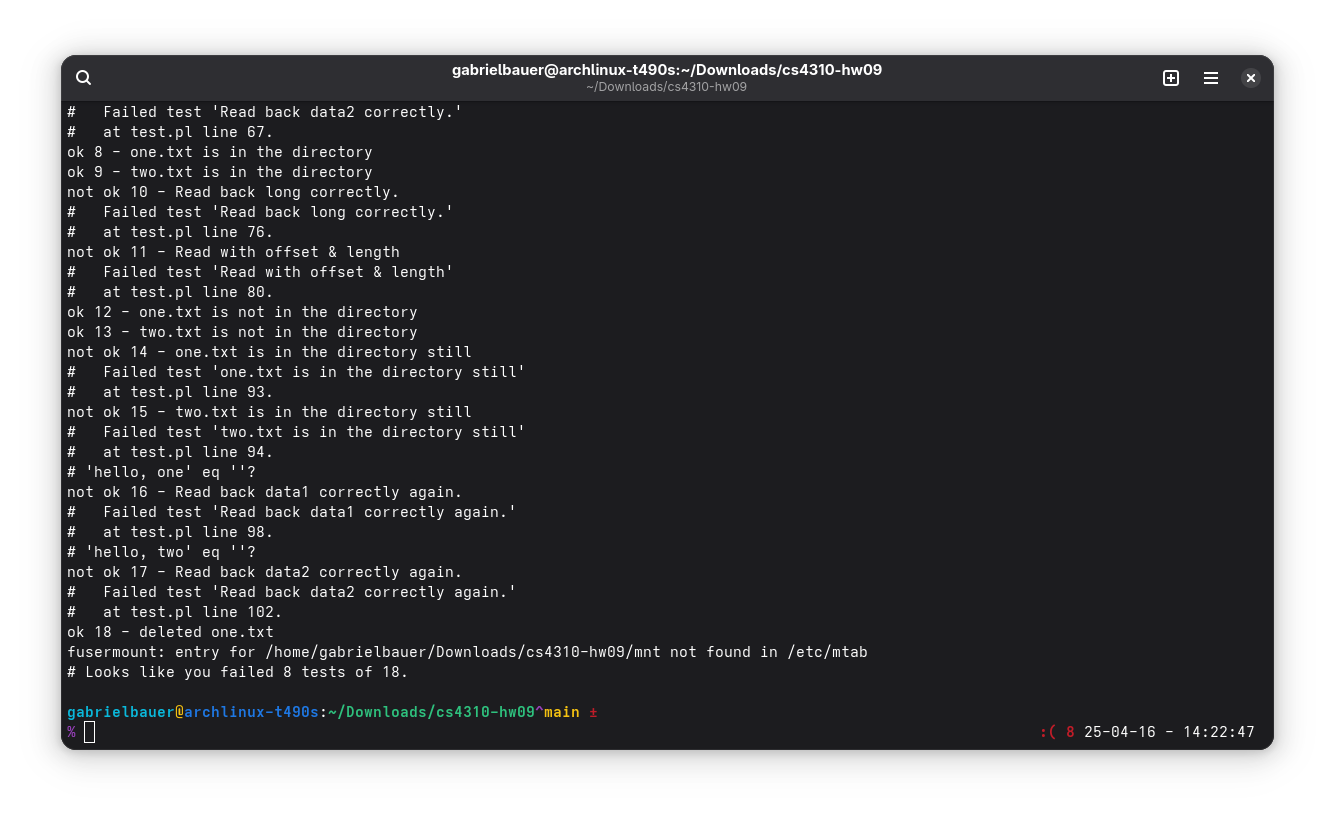
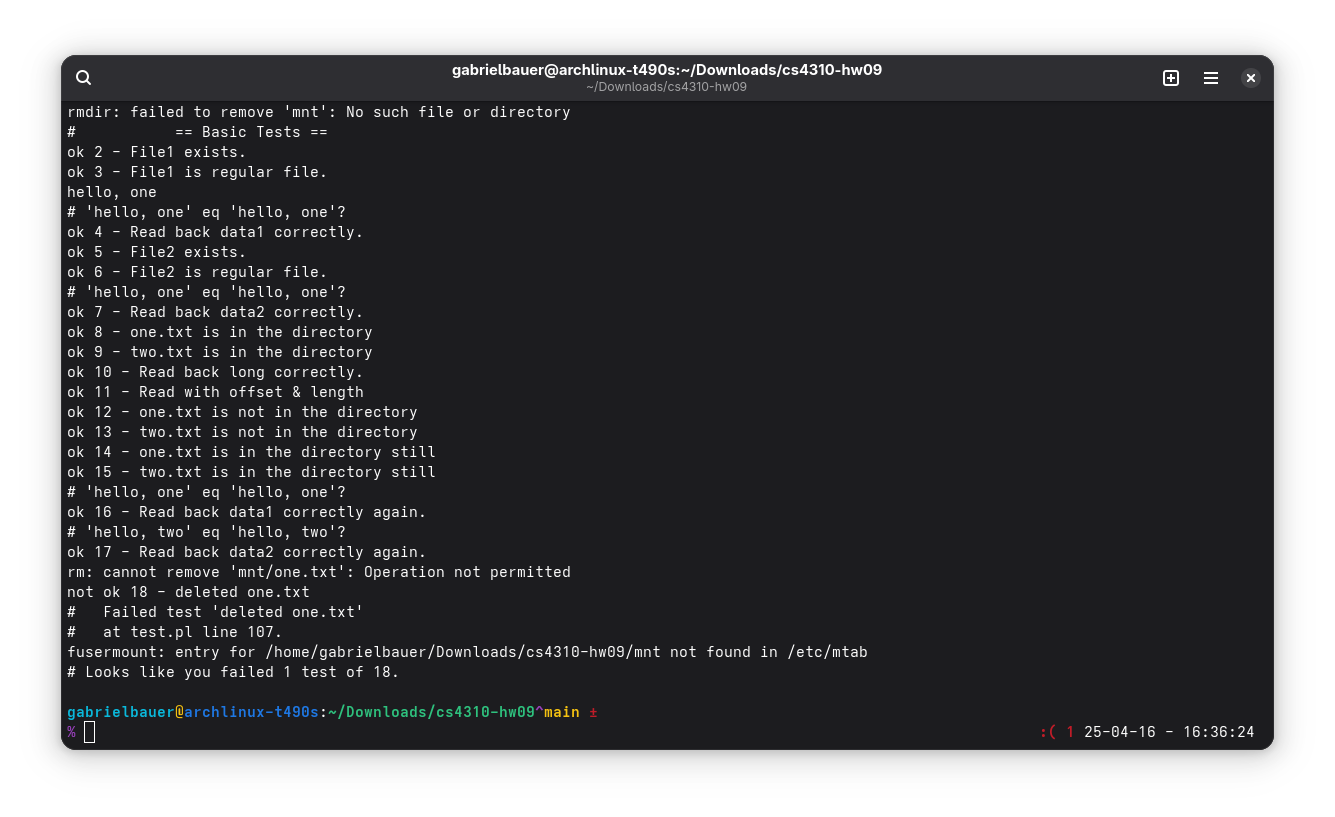
only need to implement delete...

diff --git a/nufs.c b/nufs.c
@@ -25,27 +25,63 @@ nufs_access(const char *path, int mask)
 {
     int rv = 0;
     int l = tree_lookup(path);
-    rv = (l>-1) ? 0 : -1;
+    rv = (l>-1) ? F_OK : ENOENT;
     printf("access(%s, %04o) -> %d\n", path, mask, rv);
     return rv;
+}
+
+// mknod makes a filesystem object like a file or directory
+// called for: man 2 open, man 2 link
+int
+nufs_mknod(const char *path, mode_t mode, dev_t rdev)
+{
+    int rv = 0;
+    int l = alloc_inode();
+    inode *n = get_inode(l);
+    size_t* count = (size_t*)get_root_start();
+    dirent *nod = (dirent*)get_root_start() + 1;
+    for (int i=0; i<*count; i++, *nod++);
+    strcpy(nod->name, path);
+    nod->inum = l;
+    *count = *count + 1;
+    n->mode = mode;
+    printf("mknod(%s, %04o) -> %d\n", path, mode, rv);
+    return rv;
+}
+
+int
+nufs_create(const char *path, mode_t mode, struct fuse_file_info *fi) {
+	if (nufs_mknod(path, mode, 0)) {
+    		int l = tree_lookup(path);
+    		inode *n = get_inode(l);
+        	n->mode = mode; // regular file
+        	n->size = 0;
+        	return l;
+	} else return -1;
 }
 
 // implementation for: man 2 stat
 // gets an object's attributes (type, permissions, size, etc)
 int
 nufs_getattr(const char *path, struct stat *st)
+// What I hate about this is how it will now create a file for each one that is tests exists...not very great of average UX
 {
     int rv = 0;
     int l = tree_lookup(path);
+    inode *n;
     if (l>-1) {
-    	inode *n = get_inode(l);
+    	n = get_inode(l);
         st->st_mode = n->mode; // regular file
         st->st_size = n->size;
         st->st_uid = getuid();
     }
     else {
-    	rv = -ENOENT;
+    	l = nufs_create(path, 0100644, 0);
+    	return nufs_getattr(path, st);
     }
+    /*else {
+    	rv = -ENOENT;
+    }*/
     printf("getattr(%s) -> (%d) {mode: %04o, size: %ld}\n", path, rv, st->st_mode, st->st_size);
     return rv;
 }
@@ -77,36 +113,6 @@ nufs_readdir(const char *path, void *buf, fuse_fill_dir_t filler,
 
     printf("readdir(%s) -> %d\n", path, rv);
     return 0;
-}
-
-// mknod makes a filesystem object like a file or directory
-// called for: man 2 open, man 2 link
-int
-nufs_mknod(const char *path, mode_t mode, dev_t rdev)
-{
-    int rv = 0;
-    int l = alloc_inode();
-    inode *n = get_inode(l);
-    size_t* count = (size_t*)get_root_start();
-    dirent *nod = (dirent*)get_root_start() + 1;
-    for (int i=0; i<*count; i++, *nod++);
-    strcpy(nod->name, path);
-    nod->inum = l;
-    *count = *count + 1;
-    n->mode = mode;
-    printf("mknod(%s, %04o) -> %d\n", path, mode, rv);
-    return rv;
-}
-
-int
-nufs_create(const char *path, mode_t mode, struct fuse_file_info *fi) {
-	if (nufs_mknod(path, 0100644, 0)) {
-    		int l = tree_lookup(path);
-    		inode *n = get_inode(l);
-        	n->mode = mode; // regular file
-        	n->size = 0;
-        	return 0;
-	} else return -1;
 }
 
 // most of the following callbacks implement
@@ -178,7 +184,7 @@ nufs_open(const char *path, struct fuse_file_info *fi)
 {
     int rv = 0;
     int k = nufs_access(path, 0);
-    if (k==-1) k = nufs_mknod(path, 0100644, 0);
+    if (k==ENOENT) k = nufs_create(path, 0100644, 0);
     printf("open(%s) -> %d\n", path, rv);
     return rv;
 }
@@ -187,12 +193,11 @@ nufs_open(const char *path, struct fuse_file_info *fi)
 int
 nufs_read(const char *path, char *buf, size_t size, off_t offset, struct fuse_file_info *fi)
 {
-    int rv = 6;
-    //strcpy(buf, "hello\n");
+    int rv = 4096;
     int l = tree_lookup(path);
     inode* n = get_inode(l);
-    void *data = (void*)(uintptr_t)n->ptrs[0];
-    memcpy(buf, get_data_start(), size);
+    void *data = (void*)(uintptr_t)((char*)get_data_start()+n->ptrs[0]);
+    memcpy(buf, data, size);
     printf("read(%s, %ld bytes, @+%ld) -> %d\n", path, size, offset, rv);
     return rv;
 }
@@ -203,12 +208,13 @@ nufs_write(const char *path, const char *buf, size_t size, off_t offset, struct 
 {
     int rv = 0;
     int l = tree_lookup(path);
-    if (l==-1) {
-    	int l = alloc_inode();
-    }
     inode* n = get_inode(l);
-    //void *b = (void*)(uintptr_t)n->ptrs[0];	// (int)(uintptr_t)get_data_start()
-    memcpy(get_data_start(), buf, size);
+    inode* h = get_inode(0);
+    void *b = (void*)(uintptr_t)((char*)get_data_start() + h->ptrs[0]);
+    memcpy(b, buf, size);
+    n->ptrs[0]=h->ptrs[0];
+    n->size=size;
+    h->ptrs[0]+=size;
     rv = size;
     printf("write(%s, %ld bytes, @+%ld) -> %d\n", path, size, offset, rv);
     return rv;
@@ -282,7 +288,7 @@ int
 main(int argc, char *argv[])
 {
     assert(argc > 2 && argc < 6);
-    if (access(argv[argc], F_OK) != 0) mkfs();
+    //if (access(argv[argc], F_OK) != 0) mkfs();
     storage_init(argv[--argc]);
     nufs_init_ops(&nufs_ops);
     return fuse_main(argc, argv, &nufs_ops, NULL);

diff --git a/mkfs.c b/mkfs.c
@@ -6,48 +6,15 @@
 #include "directory.h"
 #include <stdlib.h>
 
-// Actually read data
-int
-mread(const char *path, char *buf, unsigned long size)
-{
-    int rv = 6;
-    //strcpy(buf, "hello\n");
-    int l = tree_lookup(path);
-    inode* n = get_inode(l);
-    void *data = (void*)(uintptr_t)n->ptrs[0];
-    memcpy(buf, get_data_start(), size);
-    printf("read(%s, %ld bytes)\n", path, size);
-    return rv;
-}
-
-// Actually write data
-int
-mwrite(const char *path, const char *buf, size_t size)
-{
-    int rv = -1;
-    int l = tree_lookup(path);
-    if (l==-1) {
-    	int l = alloc_inode();
-    }
-    inode* n = get_inode(l);
-    //void *b = (void*)(uintptr_t)n->ptrs[0];
-    memcpy(get_data_start(), buf, size);
-    n->size += size;
-    printf("write(%s, %ld bytes)\n", path, size);
-    return rv;
-}
-
 int
 main(int argc, char *argv[])
 {
 	// TODO : mkfs implementation...
 	pages_init("data.nufs");
 	size_t *p = (size_t*)get_root_start();
-	*p = 2;
+	*p = 1;
 	dirent *root = (dirent*)get_root_start() + 1;
-	dirent *dhello = root + 1;
 	strcpy(root->name, "/");
-	strcpy(dhello->name, "/hello.txt");
 	void *blk = get_root_start();	// Root directory starts at the beginning of data segment...
 	int t = alloc_inode();
 	inode* ptr = get_inode(t);
@@ -56,16 +23,6 @@ main(int argc, char *argv[])
 	root->inum = t;
 	root->type = DIRECTORY;
 	root->active = true;
-	t = alloc_inode();
-	inode *hello = get_inode(t);
-	//printf("%d\n", t);
-	hello->mode=0100644;
-	hello->ptrs[0] = 0;
-	dhello->inum = t;
-	dhello->type = FILE;
-	dhello->active = true;
-	dhello->next=NULL;
-	root->next=dhello;
-	mwrite("/hello.txt", "hello\n", 6);
+	root->next=NULL;
 	pages_free();
 }

diff --git a/pages.c b/pages.c
@@ -16,6 +16,7 @@
 #include "pages.h"
 #include "util.h"
 #include "bitmap.h"
+#include "nufs.h"
 
 const int PAGE_COUNT = 512;
 const int NUFS_SIZE  = 4096 * 512; // 2MB
@@ -43,7 +44,10 @@ void
 storage_init(const char* path)
 {
     pages_fd = open(path, O_RDWR, 0644);
-    assert(pages_fd != -1);
+    if (pages_fd == -1) {
+    	mkfs();
+    	storage_init(path);
+    }
 
     pages_base = mmap(0, NUFS_SIZE, PROT_READ | PROT_WRITE, MAP_SHARED, pages_fd, 0);
     assert(pages_base != MAP_FAILED);

diff --git a/nufs.h b/nufs.h
@@ -1,0 +1,1 @@
+void mkfs();
